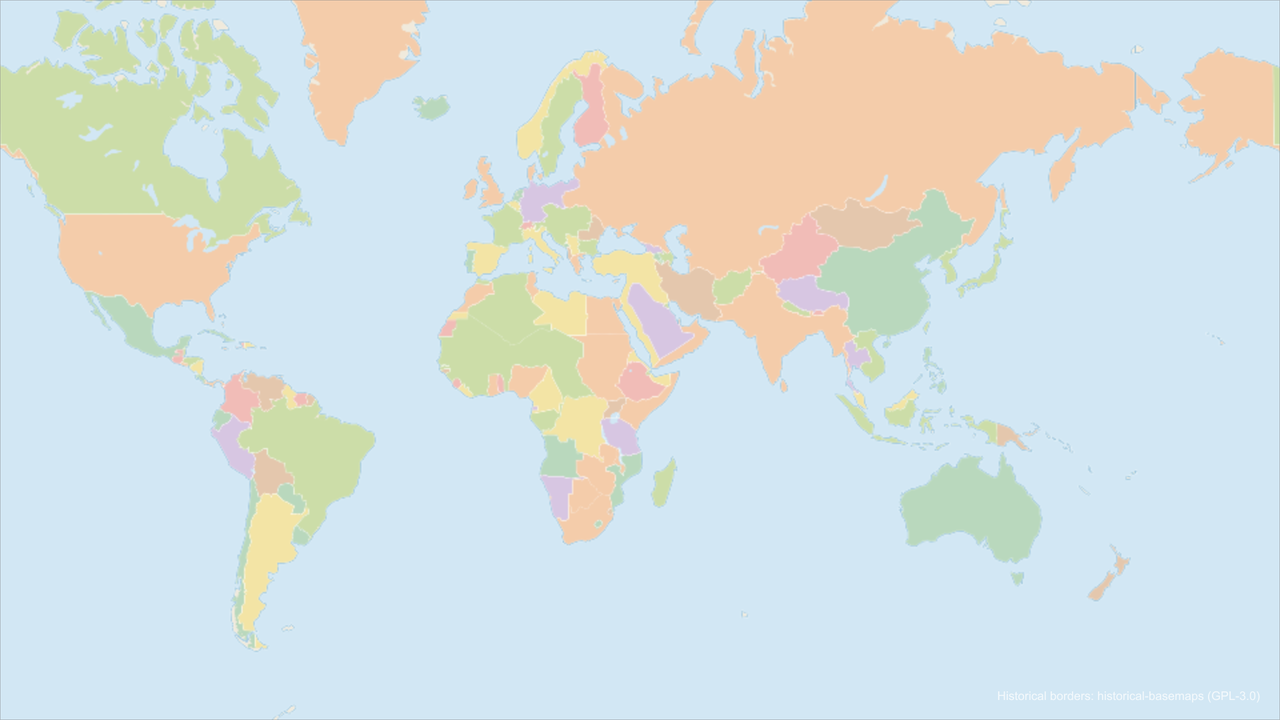
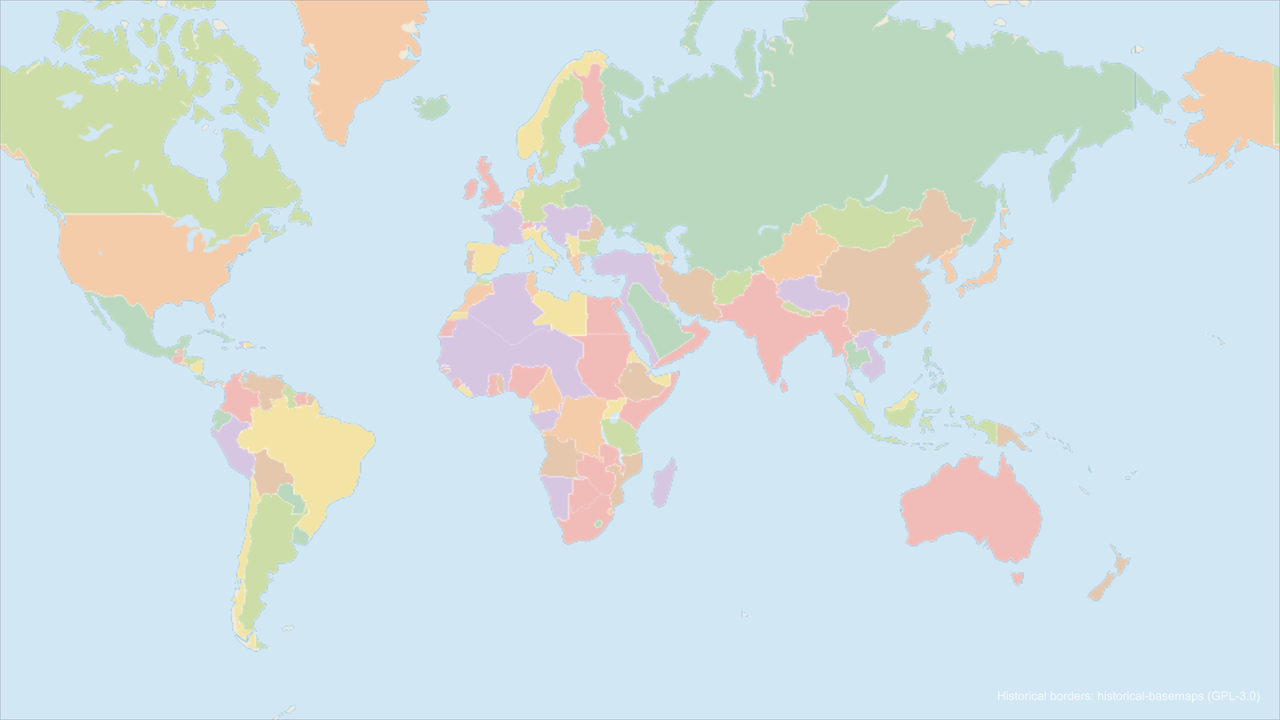
docs/manual: Historical borders pictures again with 1.1.2's colours, the large empires apart and the same in every year

Changed region(s): [[0.3438, 0.0, 0.9375, 0.7028], [0.1562, 0.55, 0.3125, 0.9167], [0.6875, 0.6111, 0.8125, 0.825]]

diff --git a/docs/manual/historical-borders.md b/docs/manual/historical-borders.md
@@ -7,7 +7,7 @@ Key the year and the map moves through history in one shot, fading only what cha
 
 ![South Asia from 1945 to 1947: the British Raj gives way to India and Pakistan, and the year counts on screen](media/hb-partition.gif)
 
-New in LazyMapLayers 1.1.
+New in LazyMapLayers 1.1; the colours as in 1.1.2.
 
 ## Download the pack once
 
@@ -42,7 +42,7 @@ What changes on the map, and what stays:
 | Changes | Stays |
 |---|---|
 | Today's country colours, borders, province lines and country names give way to that year's states, borders and names | Coasts, lakes, rivers, relief, terrain, imagery and cities |
-| Every colony takes its **ruling power's colour**, and two neighbours never share one | Your look: the colours are mixed from it, or a look's own country colours are used (Atlas) |
+| Every colony takes its **ruling power's colour**, and two neighbours never share one. The largest powers of each year (six on Atlas, eight on a ten-colour look) always get colours of their own, chosen over all the years at once, so an empire keeps **the same colour in every year** | Your look: the colours are mixed from it, or a look's own country colours are used (Atlas) |
 | Borders between powers in the look's border colour; borders inside one power's lands (between two of its colonies) dashed | **Animate borders** draws the year's borders on ([chapter 21](21-animate-borders.md)) |
 
 The year is saved with the map. **Today** at the top of the list puts today's world back.
